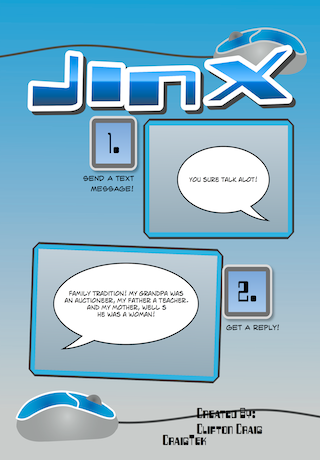
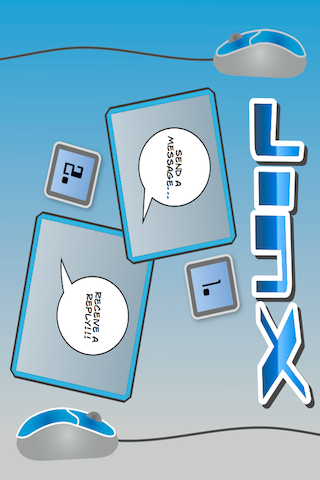
updated splash screen w/ animation fixed crasher on completion of call when you tap the back button at the same time.

diff --git a/source/Classes/JinxAppDelegate.m b/source/Classes/JinxAppDelegate.m
@@ -9,6 +9,7 @@
 #import "JinxApplicationGlobal.h"
 #import "JinxAppDelegate.h"
 #import "CCCChatViewController.h"
+#import "JinxMath.h"
 
 @interface JinxAppDelegate (PrivateMethods)
 
@@ -27,23 +28,18 @@
 -(void) doSplash
 {
 	UIImageView *loadScreen = [[UIImageView alloc] initWithImage:[UIImage imageNamed:@"Default.png"]];
-	loadScreen.frame = CGRectMake(0.0f, 20.0f, 320, 460);
+	loadScreen.frame = CGRectMake(0.0f, 0.0f, 320, 480);
 	[window addSubview: loadScreen];
     [window makeKeyAndVisible];
 
-	UIImageView *splashView = [[UIImageView alloc] initWithImage:[UIImage imageNamed:@"JinxSplash.png"]];
-	splashView.alpha = 0.0f;
-	splashView.frame = CGRectMake(0.0f, 0.0f, 320, 480);
-	[window addSubview: splashView];
-	[UIView animateWithDuration:1.0 delay:1.0 options:UIViewAnimationOptionAllowUserInteraction animations:^{ splashView.alpha = 1.0f; } 
+	[UIView animateWithDuration:1.0 delay:2.0 options:UIViewAnimationOptionAllowUserInteraction animations:^{
+		loadScreen.transform = CGAffineTransformMakeRotation(DEGREES_TO_RADIANS(-180));
+		loadScreen.frame = CGRectMake(0.0f, 0.0f, loadScreen.frame.size.width * 2, loadScreen.frame.size.height * 2);
+		loadScreen.alpha = 0.0f;
+	} 
 					 completion:^(BOOL finished){
 						 [loadScreen removeFromSuperview];
 						 [loadScreen release];
-						 [UIView animateWithDuration:1.0 delay:3.0 options:UIViewAnimationOptionAllowUserInteraction animations:^{ splashView.alpha = 0.0f; } 
-										  completion:^(BOOL finished){
-											 [splashView removeFromSuperview];
-											 [splashView release];
-										  }];
 					 }];
 }
 
@@ -85,6 +81,7 @@
     /*
      Called as part of  transition from the background to the inactive state: here you can undo many of the changes made on entering the background.
      */
+	[self doSplash];
 }
 
 

diff --git a/source/Classes/JinxApplicationGlobal.h b/source/Classes/JinxApplicationGlobal.h
@@ -8,10 +8,8 @@
  */
 #import "JinxNotifications.h"
 #import "SharedFunctions.h"
+#import "JinxMath.h"
 
-#define M_PI   3.14159265358979323846264338327950288   /* pi */
-// Our conversion definition
-#define DEGREES_TO_RADIANS(angle) ((angle / 180.0) * M_PI)
 #define JinxArchivePath ([NSString stringWithFormat:@"%@/%@",\
 [NSSearchPathForDirectoriesInDomains(NSDocumentDirectory, NSUserDomainMask, YES) objectAtIndex:0],\
 @"conversations"\

diff --git a/source/Classes/CCCCallScreen.m b/source/Classes/CCCCallScreen.m
@@ -236,6 +236,7 @@ static int lastReply = 0;
 
 -(void) playbackDidStopForPlayer:(CCCAudioPlayer*)audioPlayer;
 {
+	self.navigationController.navigationItem.leftBarButtonItem.enabled = NO;
 	if ([audioPlayList count] > 0) {
 		[self performSelector:@selector(playNextFromPlaylist) withObject:nil afterDelay:1.5];
 	} else {

diff --git a/source/Classes/CCCChatViewController.m b/source/Classes/CCCChatViewController.m
@@ -406,7 +406,6 @@ static NSString *CellIdentifier = @"Cell";
 	} else if(isShowingLandscape && [UIDevice currentDevice].orientation == UIDeviceOrientationLandscapeRight) {
 		self.navigationController.visibleViewController.view.transform = CGAffineTransformMakeRotation(DEGREES_TO_RADIANS(90));
 	}
-
 }
 
 #pragma mark -

diff --git a/source/Classes/JinxMath.h b/source/Classes/JinxMath.h
@@ -1,0 +1,12 @@
+/*
+ *  JinxMath.h
+ *  Jinx
+ *
+ *  Created by Clifton Craig on 12/21/10.
+ *  Copyright 2010 Craig Corp. All rights reserved.
+ *
+ */
+
+#define M_PI   3.14159265358979323846264338327950288   /* pi */
+// Our conversion definition
+#define DEGREES_TO_RADIANS(angle) ((angle / 180.0) * M_PI)
